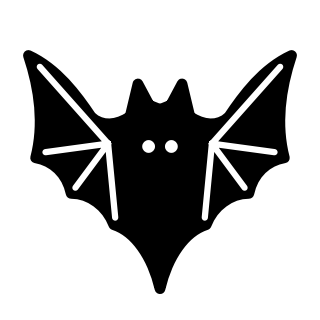
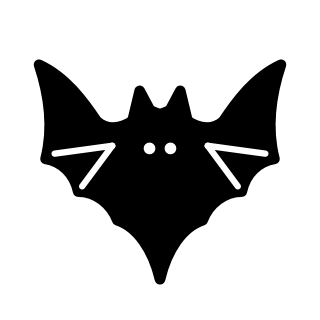
Saddle, bat and jester cap a touch smaller; saddle line clear of the outline; two lines per bat wing (local only)

diff --git a/art/source/piece_options/make_final_vampire_squire.py b/art/source/piece_options/make_final_vampire_squire.py
@@ -8,6 +8,7 @@ Run from this folder:  python make_final_vampire_squire.py
 """
 import io
 import os
+import re
 import sys
 
 HERE = os.path.dirname(os.path.abspath(__file__))
@@ -59,7 +60,8 @@ def vampire(team):
     out = shape(bat_path(), fill)
     # The wing bones: from each shoulder out to the wing's points.
     bones = ""
-    for tip in ((5.6, 9.4), (6.4, 21.4), (10.6, 26.4), (16.2, 30.6)):
+    # Just the middle two of each wing's four points (Mac).
+    for tip in ((6.4, 21.4), (10.6, 26.4)):
         for x, y in (tip, _mirror(tip)):
             sx = 15.2 if x < 22.5 else 29.8
             bones += "M %s,20.2 L %.2f,%.2f " % (sx, x, y)
@@ -84,16 +86,27 @@ def squire(team):
     out += '<path d="%s" fill="%s" fill-rule="evenodd" stroke="#000" stroke-width="1.5"/>' % (STIRRUP, fill)
     out += shape(SADDLE, fill)
     # The line between the seat and the flap below it.
-    out += detail("M 9.4,17.6 C 13.2,18 15.8,20 17.2,22.8 C 18.4,25.4 20.4,26.8 23.4,26.8 L 32.6,26.8 "
-                  "C 35.8,26.8 37.8,24.8 37.8,21.6 L 37.8,12", inner(team), 1.1)
+    # Kept clear of the outline at both ends.
+    out += detail("M 11.4,17.9 C 14.2,18.6 16.2,20.4 17.4,22.9 C 18.6,25.4 20.5,26.6 23.4,26.6 L 32.6,26.6 "
+                  "C 35.6,26.6 37.4,24.8 37.4,21.6 L 37.4,13.6", inner(team), 1.1)
     return out
 
 
+def shrink(body, k, centre=(22.5, 24)):
+    """Draw `body` at `k` times its size about `centre`, keeping the line widths
+    as they were (so outlines stay the usual thickness)."""
+    body = re.sub(r'stroke-width="([0-9.]+)"', lambda m: 'stroke-width="%.2f"' % (float(m.group(1)) / k), body)
+    cx, cy = centre
+    return '<g transform="translate(%.2f %.2f) scale(%s)">%s</g>' % (cx * (1 - k), cy * (1 - k), k, body)
+
+
 PIECES = {"vampire": vampire, "squire": squire}
+# Both drawn a touch smaller than first made (Mac).
+SHRINK = 0.92
 
 if __name__ == "__main__":
     for name, draw in PIECES.items():
         for team in ("white", "black"):
             path = os.path.join(HERE, "..", "pieces", "%s_%s.svg" % (team, name))
-            io.open(path, "w", encoding="utf-8", newline="\n").write(r16.HEAD + draw(team) + r16.TAIL)
+            io.open(path, "w", encoding="utf-8", newline="\n").write(r16.HEAD + shrink(draw(team), SHRINK) + r16.TAIL)
     print("wrote", len(PIECES) * 2, "files")

diff --git a/art/source/piece_options/make_final_jester_parapet.py b/art/source/piece_options/make_final_jester_parapet.py
@@ -34,10 +34,17 @@ def parapet(team):
 
 
 PIECES = {"jester": jester, "parapet": parapet}
+# The jester's cap drawn a touch smaller than first made (Mac).
+SHRINK = {"jester": 0.92}
 
 if __name__ == "__main__":
+    sys.path.insert(0, HERE)
+    import make_final_vampire_squire as vs  # noqa: E402 (for shrink)
     for name, draw in PIECES.items():
         for team in ("white", "black"):
             path = os.path.join(HERE, "..", "pieces", "%s_%s.svg" % (team, name))
-            io.open(path, "w", encoding="utf-8", newline="\n").write(r16.HEAD + draw(team) + r16.TAIL)
+            body = draw(team)
+            if name in SHRINK:
+                body = vs.shrink(body, SHRINK[name])
+            io.open(path, "w", encoding="utf-8", newline="\n").write(r16.HEAD + body + r16.TAIL)
     print("wrote", len(PIECES) * 2, "files")
